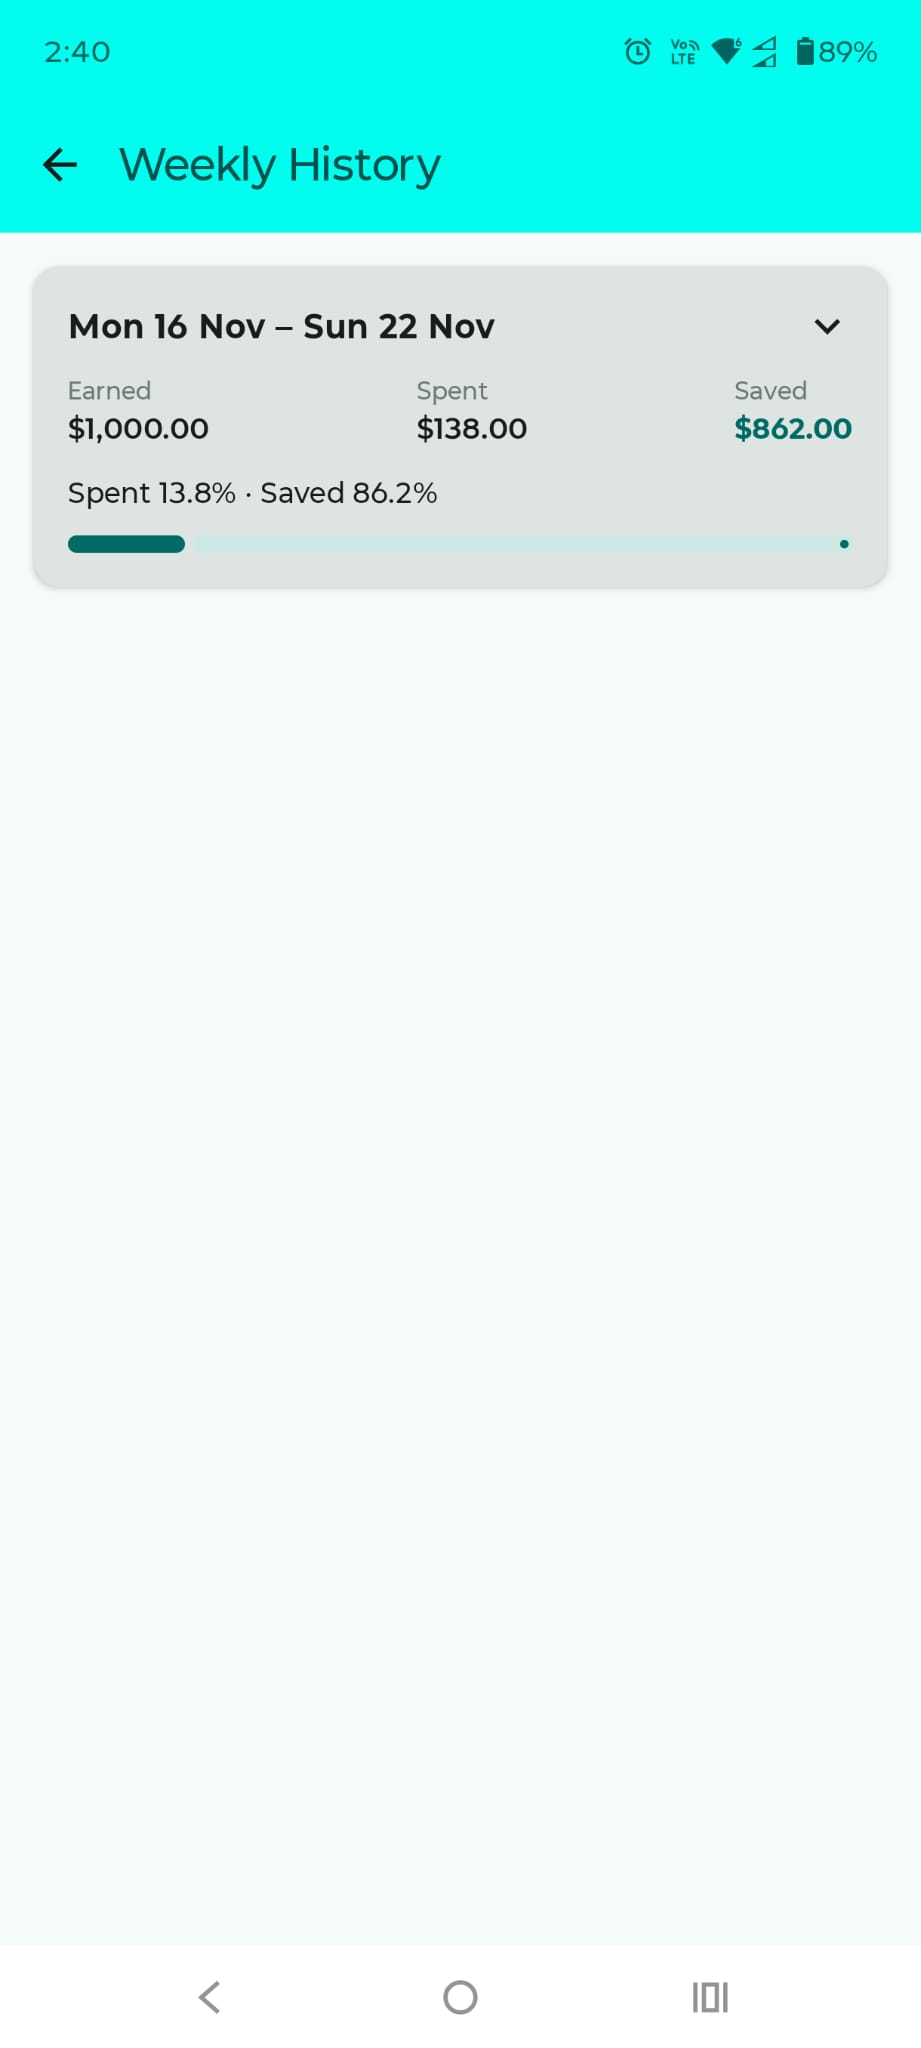
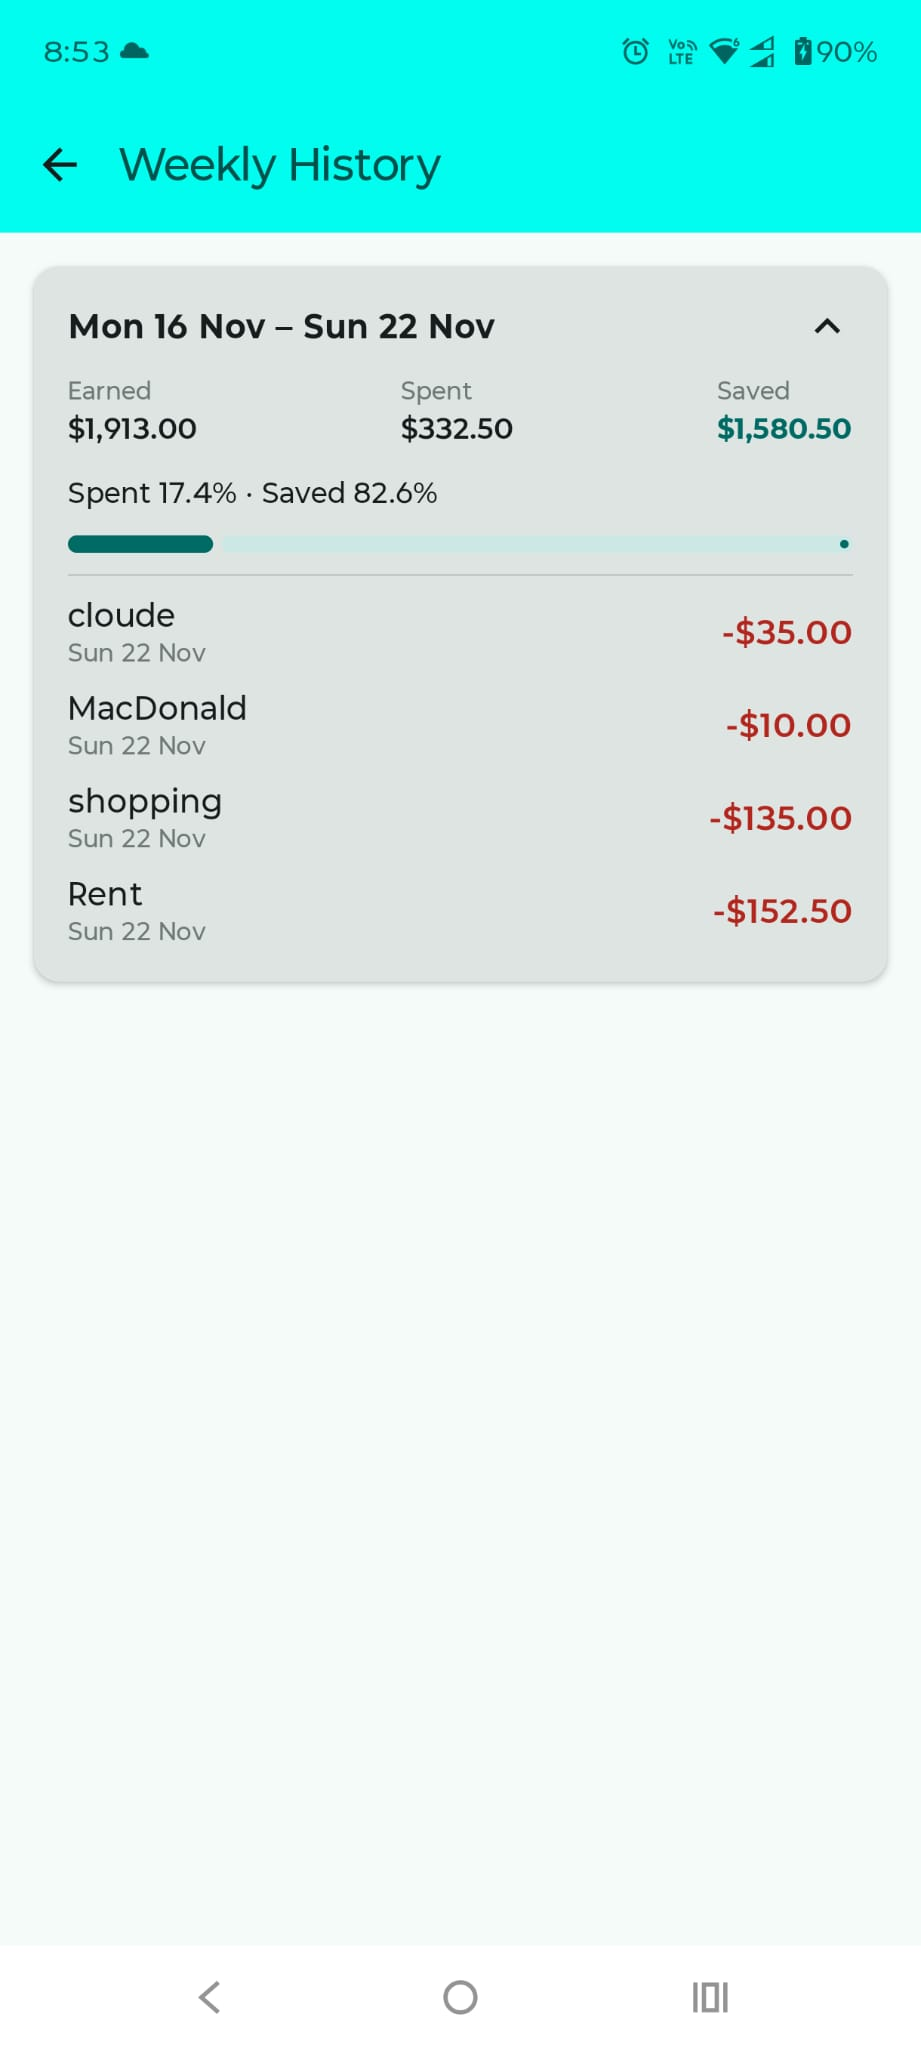
Update README with combined

diff --git a/README.md b/README.md
@@ -6,9 +6,7 @@ Built with **Kotlin** and **Jetpack Compose**, using **MVVM** and a local **Room
 
 ## Screenshots
 
-| Home | Add This Week | Weekly History |
-| :---: | :---: | :---: |
-| <img src="screenshots/home.png" width="250" alt="Home screen showing total savings"> | <img src="screenshots/add-this-week.png" width="250" alt="Add earnings and expenses with this week's summary"> | <img src="screenshots/weekly-history.png" width="250" alt="Weekly history with spent and saved percentages"> |
+<img width="100%" alt="SaveTrack screenshots: Home, Add This Week and Weekly History" src="https://github.com/user-attachments/assets/caf7efc6-e9b3-4352-8b17-0fc11bb629b7" />
 
 ## Features
 
@@ -29,6 +27,24 @@ Built with **Kotlin** and **Jetpack Compose**, using **MVVM** and a local **Room
 | Database | Room (SQLite) with Kotlin Flow |
 | Navigation | Navigation Compose |
 | Async | Kotlin Coroutines |
+
+## How it works
+
+I built SaveTrack using MVVM (Model, View, ViewModel). The idea is simple: each part of the app has one job and doesn't reach into the others.
+
+- **View (the screens):** `HomeScreen`, `AddWeekScreen` and `HistoryScreen` are written in Jetpack Compose. They only show data and pass taps and typing to the ViewModel. There's no maths or database code in them.
+- **ViewModel (the logic):** each screen has its own ViewModel. It checks the input, does the calculations (total savings, weekly totals, percentages) and keeps the screen's state in a `StateFlow`. Because ViewModels survive screen rotation, nothing you typed gets lost.
+- **Model (the data):** a Room database with one `transactions` table. The `TransactionRepository` is the only way in, so the ViewModels never talk to the database directly.
+
+Here's what happens when you add an expense:
+
+1. You type an amount and an item name, then tap **Add Expense**.
+2. `AddWeekViewModel` checks the amount is above $0 and the name isn't empty.
+3. It saves the expense through the repository, inside a coroutine so the screen never freezes.
+4. Room notices the table changed and sends the updated list through a `Flow`.
+5. All three ViewModels recalculate, and every screen updates on its own. There's no manual refresh anywhere.
+
+Weeks run from Monday to Sunday. `HistoryViewModel` finds the Monday of each entry's week, groups entries by that date, and works out earned, spent, saved and the percentages for each week.
 
 ## Architecture
 
